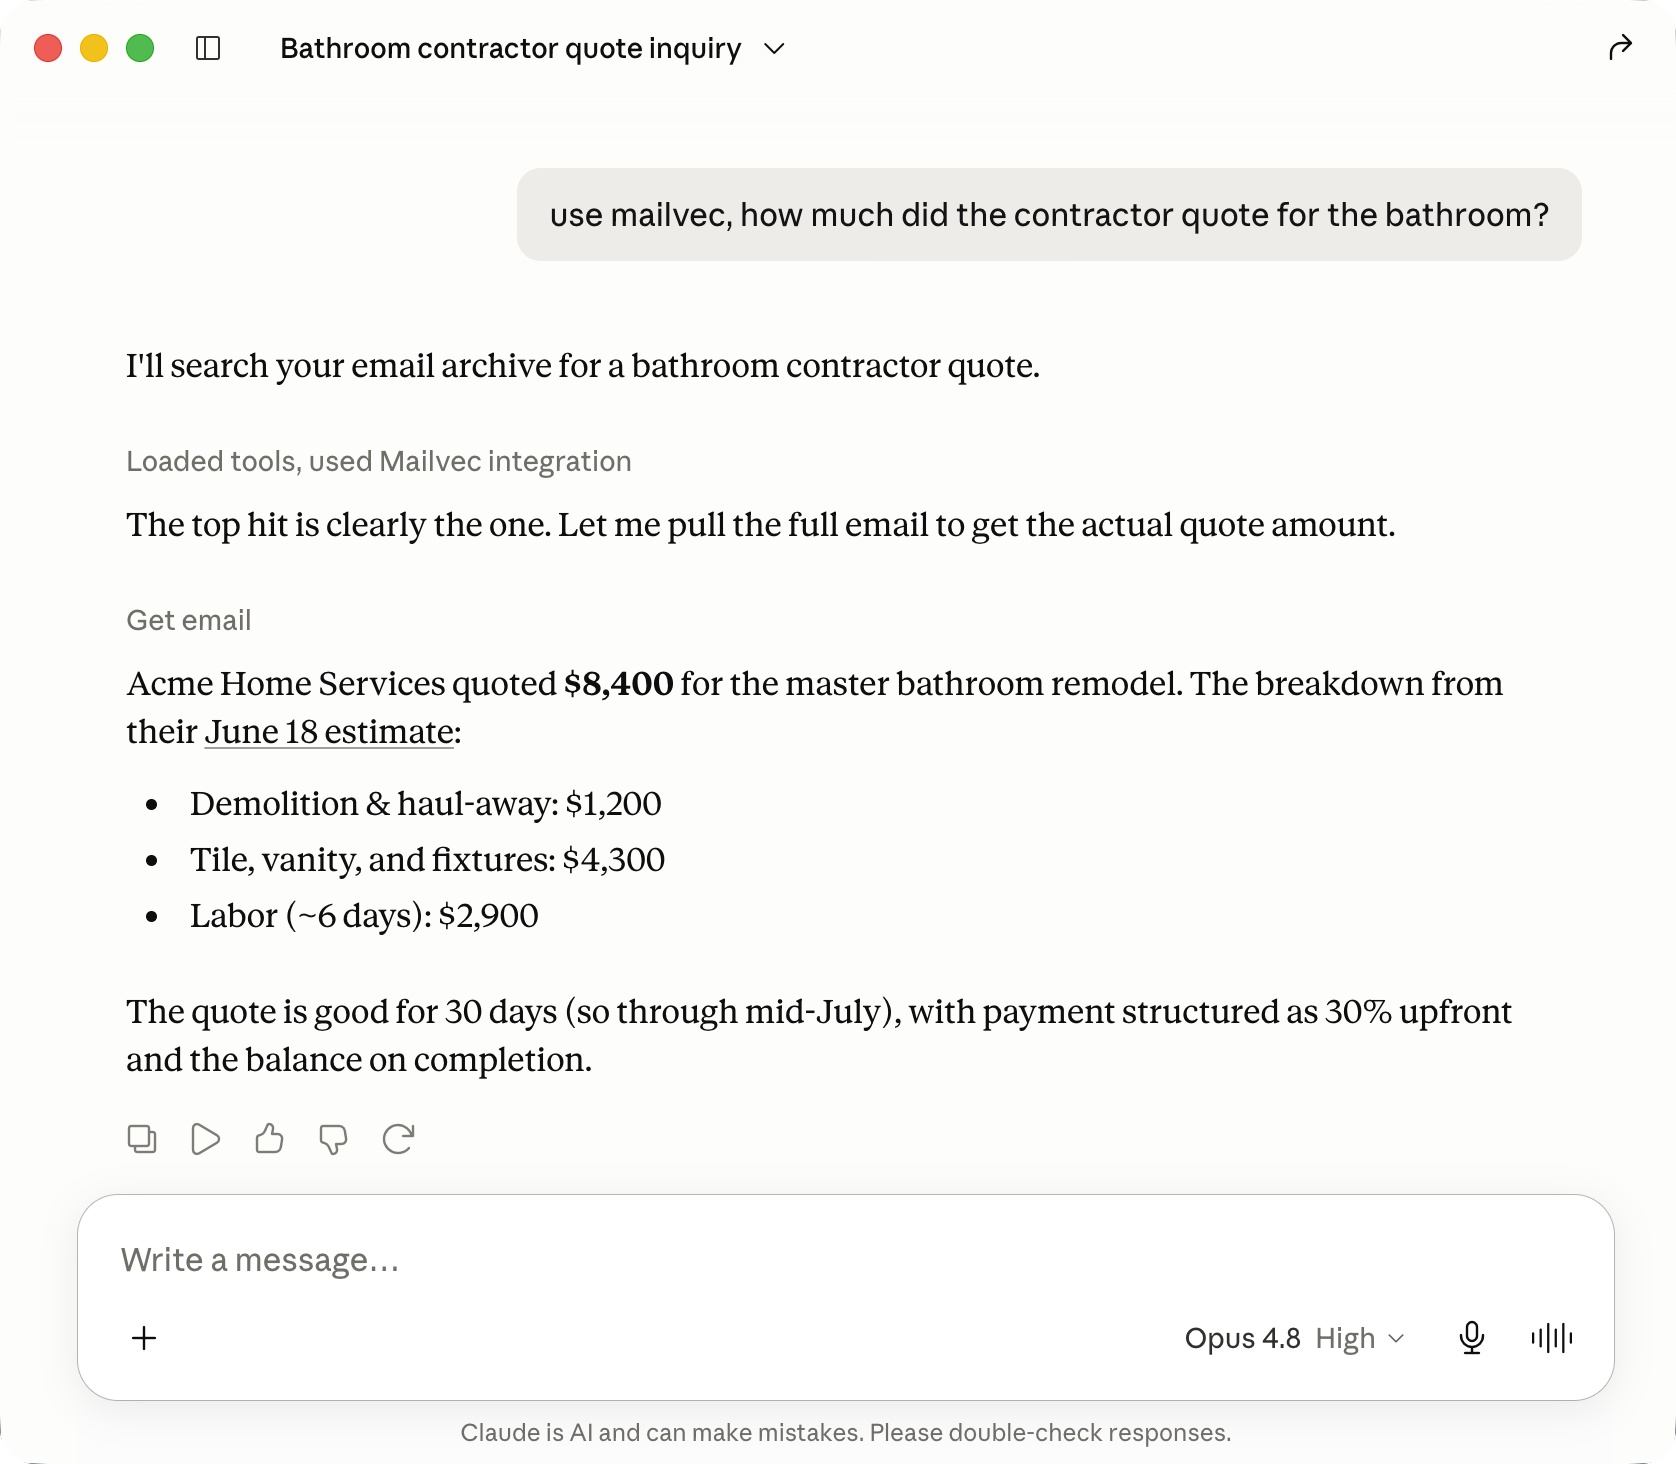
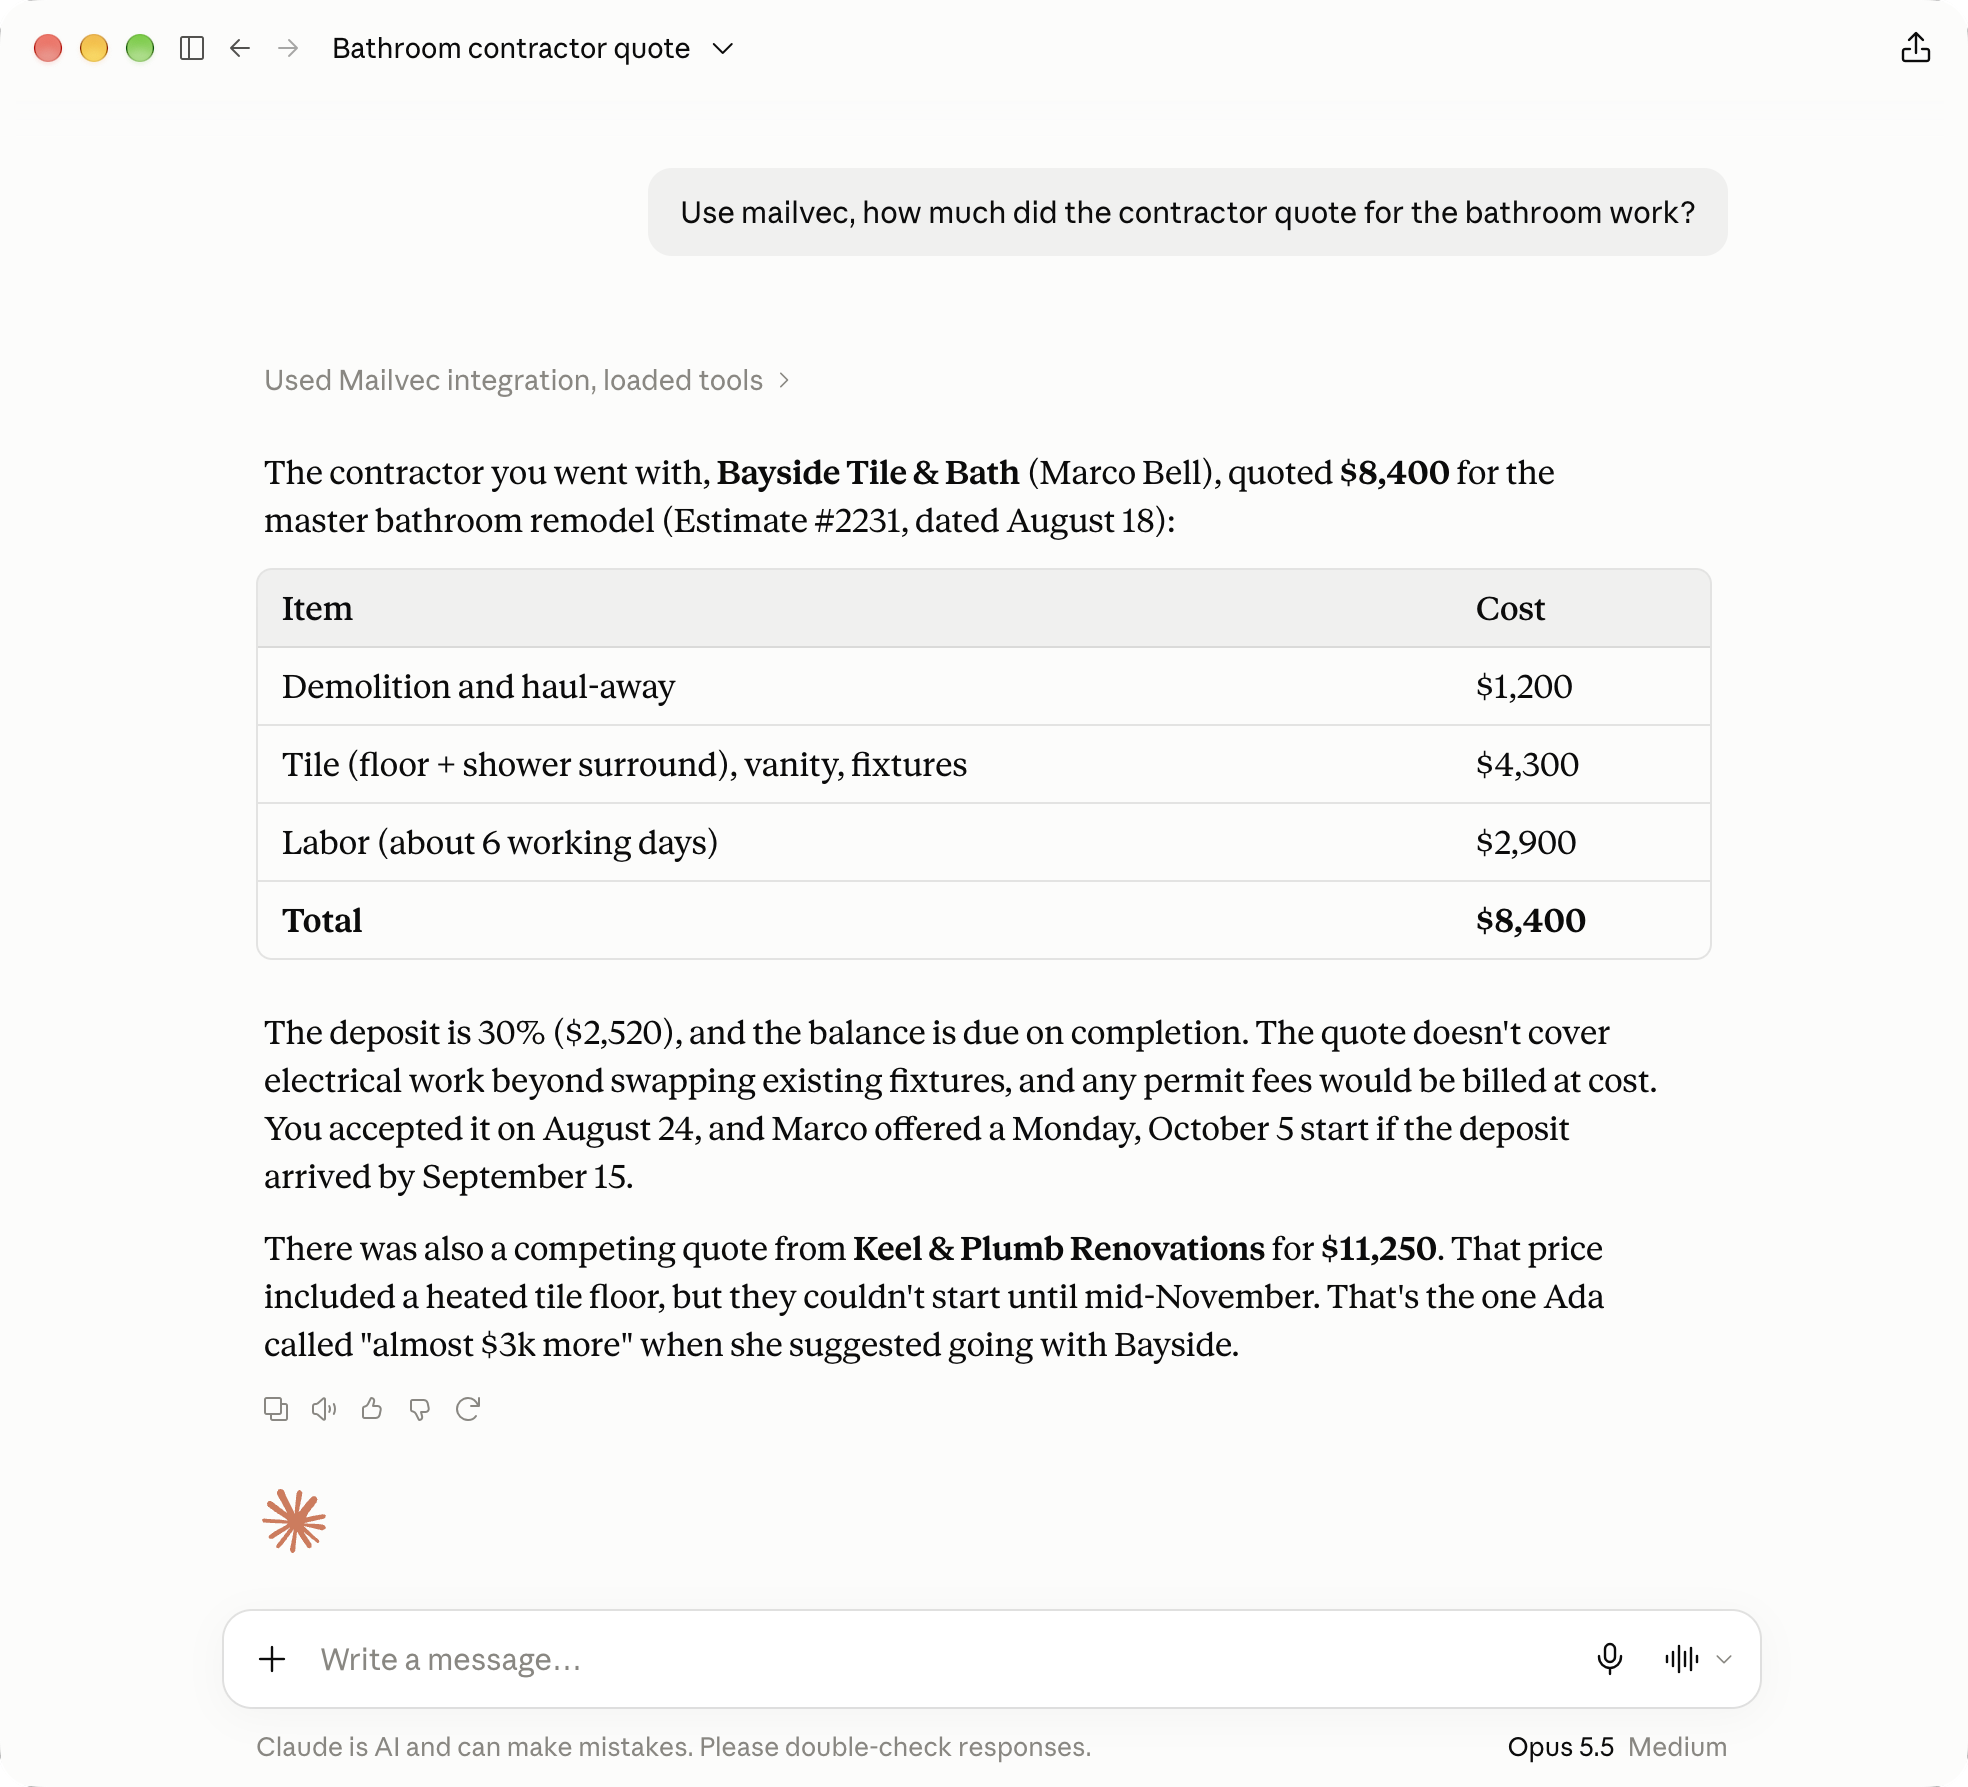
Recapture the README screenshot from a synthetic mailbox, and document how
The new capture is Claude Desktop answering from the dev corpus plus five
hand-written messages (assets/screenshots/demo-mail.py), served over stdio
from a published Mailvec.Mcp. assets/screenshots/README.md records the
procedure and what went wrong the first time: dotnet run corrupting the stdio
channel, the production connector needing to be off, Claude noticing the
persona, and window-only capture.

The script refuses to write anywhere but a generated dev corpus's Mail/.

diff --git a/assets/screenshots/demo-mail.py b/assets/screenshots/demo-mail.py
@@ -1,0 +1,159 @@
+"""Hand-written demo mail for the README screenshot, added to a dev corpus.
+
+Five messages about a bathroom remodel: a quote with an itemised PDF estimate,
+a competing quote in the body, a note comparing them, and a scheduling thread.
+Everything is invented and on reserved .example domains. This repository is
+public: never put real mail here.
+
+Usage: python3 assets/screenshots/demo-mail.py ~/MailvecDemo/Mail
+Procedure: assets/screenshots/README.md
+"""
+import sys, os, email.utils
+from email.message import EmailMessage
+from datetime import datetime, timezone, timedelta
+
+root = os.path.abspath(os.path.expanduser(sys.argv[1]))
+# Only ever write into a Maildir tools/Mailvec.DevCorpus generated: the corpus
+# directory beside it holds the manifest and the generated env.sh.
+corpus = os.path.dirname(root)
+try:
+    with open(os.path.join(corpus, "env.sh")) as f:
+        generated = "Generated by tools/Mailvec.DevCorpus" in f.read()
+except OSError:
+    generated = False
+if not (generated and os.path.isfile(os.path.join(corpus, "manifest.json"))):
+    sys.exit(f"refusing: {root} is not the Mail/ directory of a generated dev corpus")
+EDT = timezone(timedelta(hours=-4))
+SAM = "Sam Rivera <sam@example.org>"
+ADA = "Ada Example <ada@example.com>"
+
+
+def text_pdf(lines):
+    """A minimal one-page text PDF (Helvetica), parseable by PdfPig."""
+    def esc(s):
+        return s.replace("\\", "\\\\").replace("(", "\\(").replace(")", "\\)")
+    ops = ["BT", "/F1 11 Tf", "14 TL", "56 760 Td"]
+    for i, (size, line) in enumerate(lines):
+        ops.append(f"/F1 {size} Tf")
+        ops.append(f"({esc(line)}) Tj T*")
+    ops.append("ET")
+    stream = "\n".join(ops).encode("latin-1")
+    objs = [
+        b"<< /Type /Catalog /Pages 2 0 R >>",
+        b"<< /Type /Pages /Kids [3 0 R] /Count 1 >>",
+        b"<< /Type /Page /Parent 2 0 R /MediaBox [0 0 612 792] /Resources << /Font << /F1 4 0 R >> >> /Contents 5 0 R >>",
+        b"<< /Type /Font /Subtype /Type1 /BaseFont /Helvetica /Encoding /WinAnsiEncoding >>",
+        b"<< /Length %d >>\nstream\n" % len(stream) + stream + b"\nendstream",
+    ]
+    out = bytearray(b"%PDF-1.4\n")
+    offsets = []
+    for n, body in enumerate(objs, 1):
+        offsets.append(len(out))
+        out += b"%d 0 obj\n" % n + body + b"\nendobj\n"
+    xref = len(out)
+    out += b"xref\n0 %d\n0000000000 65535 f \n" % (len(objs) + 1)
+    for o in offsets:
+        out += b"%010d 00000 n \n" % o
+    out += b"trailer\n<< /Size %d /Root 1 0 R >>\nstartxref\n%d\n%%%%EOF\n" % (len(objs) + 1, xref)
+    return bytes(out)
+
+
+def msg(mid, frm, to, subject, when, body, reply_to=None, refs=(), attach=None):
+    m = EmailMessage()
+    m["Date"] = email.utils.format_datetime(when)
+    m["From"] = frm
+    m["To"] = to
+    m["Subject"] = subject
+    m["Message-ID"] = f"<{mid}>"
+    if reply_to:
+        m["In-Reply-To"] = f"<{reply_to}>"
+        m["References"] = " ".join(f"<{r}>" for r in refs)
+    m.set_content(body)
+    if attach:
+        name, data = attach
+        m.add_attachment(data, maintype="application", subtype="pdf", filename=name)
+    return m
+
+
+uid = [9000]
+
+
+def write(folder, m):
+    uid[0] += 1
+    ts = int(email.utils.parsedate_to_datetime(m["Date"]).timestamp())
+    name = f"{ts}.M{uid[0]}P4242.devcorpus,U={uid[0]}:2,S"
+    path = os.path.join(root, folder, "cur", name)
+    with open(path, "wb") as f:
+        f.write(m.as_bytes())
+    os.utime(path, (ts, ts))
+    print(folder, name, m["Subject"])
+
+
+estimate = text_pdf([
+    (16, "Bayside Tile & Bath"),
+    (10, "118 Harbor Road, Port Example  -  estimates@baysidebath.example"),
+    (10, ""),
+    (13, "ESTIMATE #2231"),
+    (10, "Date: August 18, 2026        Valid for 30 days"),
+    (10, "Prepared for: Sam Rivera, 42 Cedar Lane"),
+    (10, "Project: Master bathroom remodel"),
+    (10, ""),
+    (11, "Demolition and haul-away ............................ $1,200.00"),
+    (11, "Tile (floor + shower surround), vanity, fixtures ...... $4,300.00"),
+    (11, "Labor, approx. 6 working days ........................ $2,900.00"),
+    (10, ""),
+    (12, "TOTAL ................................................ $8,400.00"),
+    (10, ""),
+    (10, "Payment: 30% deposit ($2,520) to book, balance on completion."),
+    (10, "Excludes: electrical work beyond replacing existing fixtures."),
+    (10, "Permit fees, if required, billed at cost."),
+])
+
+BAY_EST = "estimate-2231@baysidebath.example"
+write("INBOX", msg(
+    BAY_EST, "Marco Bell <marco@baysidebath.example>", SAM,
+    "Estimate #2231 - master bathroom remodel",
+    datetime(2026, 8, 18, 16, 42, tzinfo=EDT),
+    "Hi Sam,\n\nThanks for walking me through the space on Friday. The estimate for the "
+    "master bathroom is attached - it covers demo, the tile and vanity we talked about, "
+    "and labor. Everything is itemised on the PDF.\n\nThe price holds for 30 days. If you "
+    "want to go ahead, a 30% deposit books you into our schedule.\n\nBest,\nMarco Bell\n"
+    "Bayside Tile & Bath\n",
+    attach=("Bayside-Estimate-2231.pdf", estimate)))
+
+write("INBOX", msg(
+    "quote-7781@keelplumb.example", "Keel & Plumb Renovations <office@keelplumb.example>", SAM,
+    "Your bathroom renovation quote",
+    datetime(2026, 8, 21, 10, 5, tzinfo=EDT),
+    "Hello Sam,\n\nFollowing our site visit, here is our quote for the master bathroom "
+    "renovation:\n\n  Full gut and disposal: $1,650\n  Heated tile floor + shower tile: $5,900\n"
+    "  Vanity and fixtures (client-selected allowance): $1,400\n  Labor (8-9 days): $2,300\n\n"
+    "  Total: $11,250\n\nWe could start in mid-November. Quote valid through September 30.\n\n"
+    "Regards,\nJo Keel\nKeel & Plumb Renovations\n"))
+
+ADA_NOTE = "bathroom-quotes-ada@example.com"
+write("INBOX", msg(
+    ADA_NOTE, ADA, SAM, "Bathroom quotes",
+    datetime(2026, 8, 22, 20, 18, tzinfo=EDT),
+    "I read both quotes. Keel & Plumb is nicer on paper (heated floor!) but it's almost "
+    "$3k more and they can't start until November. Bayside's tile samples looked good and "
+    "Marco was straightforward. I'd go with Bayside if they can start in early October - "
+    "can you ask?\n\nA\n"))
+
+SAM_Q = "sam-bayside-start@example.org"
+write("Sent", msg(
+    SAM_Q, SAM, "Marco Bell <marco@baysidebath.example>",
+    "Re: Estimate #2231 - master bathroom remodel",
+    datetime(2026, 8, 24, 9, 30, tzinfo=EDT),
+    "Hi Marco,\n\nWe'd like to go ahead with estimate #2231. Is there any chance of an "
+    "early-October start?\n\nThanks,\nSam\n",
+    reply_to=BAY_EST, refs=(BAY_EST,)))
+
+write("INBOX", msg(
+    "bayside-schedule@baysidebath.example", "Marco Bell <marco@baysidebath.example>", SAM,
+    "Re: Estimate #2231 - master bathroom remodel",
+    datetime(2026, 8, 25, 14, 2, tzinfo=EDT),
+    "Hi Sam,\n\nGreat news. We can hold Monday, October 5 as the start date if the "
+    "$2,520 deposit comes in by September 15. We'll need the bathroom cleared the "
+    "weekend before.\n\nMarco\n",
+    reply_to=SAM_Q, refs=(BAY_EST, SAM_Q)))

diff --git a/assets/screenshots/README.md b/assets/screenshots/README.md
@@ -1,0 +1,90 @@
+# README screenshots
+
+`claude-desktop-answer.png` is Claude Desktop answering a question from a
+synthetic mailbox: the [dev corpus](../../docs/contributing/dev-corpus.md) plus
+five hand-written messages from [`demo-mail.py`](demo-mail.py) (two contractor
+quotes, one with an itemised PDF estimate, a note comparing them, and a
+scheduling thread). No real mail is involved at any step, and none may be:
+this image and this directory are public.
+
+Nothing here installs an agent or touches the frozen corpus. Every service
+runs by hand against the demo directory.
+
+## Recapturing
+
+On the dev Mac, from the repo root. The steps use `~/MailvecDemo`; any new or
+empty directory the dev corpus accepts will do.
+
+```sh
+dotnet run --project tools/Mailvec.DevCorpus -- ~/MailvecDemo
+python3 assets/screenshots/demo-mail.py ~/MailvecDemo/Mail
+. ~/MailvecDemo/env.sh
+dotnet run --project src/Mailvec.Indexer          # Ctrl-C once it logs "MaildirScanner: seen=…"
+ollama serve &                                    # if it isn't already running; needs mxbai-embed-large
+Embedder__OcrEnabled=false dotnet run --project src/Mailvec.Embedder   # Ctrl-C once status shows 100%
+dotnet run --project src/Mailvec.Cli -- status    # check Database:/Maildir: are the demo paths
+dotnet run --project src/Mailvec.Cli -- search --hybrid "how much did the contractor quote for the bathroom"
+dotnet publish src/Mailvec.Mcp -c Release -o ~/MailvecDemo/mcp
+```
+
+- **Embed it.** Without embeddings, Claude's first search comes back "retry with
+  `mode=keyword`", and the visible tool trace gets messier.
+- **OCR off.** The corpus has a scanned PDF, and the OCR pass would load the
+  vision model to transcribe it. The screenshot doesn't need that.
+- **The search check** should put all five demo messages at the top.
+
+Then, with Claude Desktop **quit**, add a local server to
+`~/Library/Application Support/Claude/claude_desktop_config.json` (back the
+file up first) and relaunch:
+
+```json
+"mcpServers": {
+  "Mailvec": {
+    "command": "/usr/local/share/dotnet/dotnet",
+    "args": ["<home>/MailvecDemo/mcp/Mailvec.Mcp.dll", "--stdio"],
+    "env": {
+      "Archive__DatabasePath": "<home>/MailvecDemo/state/archive.sqlite",
+      "Ingest__MaildirRoot": "<home>/MailvecDemo/Mail",
+      "Fastmail__AccountId": ""
+    }
+  }
+}
+```
+
+- **Point it at the published DLL, never `dotnet run`.** In stdio mode, stdout
+  is the JSON-RPC channel, and `dotnet run` prints build output there.
+- **The `env` block is what keeps it on the demo mailbox.** Environment variables
+  outrank the shared `appsettings.Local.json`, which points at a real corpus.
+- **Name the server `Mailvec`**, so the tool trace reads "Used Mailvec
+  integration".
+
+In a new chat, **turn the claude.ai Mailvec connector off** before asking. With
+both on, Claude can answer from the real mailbox, and that answer ends up in a
+public image. Then ask, for example: "Use mailvec, how much did the contractor
+quote for the bathroom work?"
+
+Things to know about the answer:
+
+- **Claude may notice the persona.** It knows who you are, so it may point out
+  that the mail is addressed to "Sam Rivera", not you. Try an incognito chat
+  first. The current image had that paragraph removed afterwards: a band of
+  blank rows was cut out, which leaves no seam because paragraphs sit on a
+  plain background.
+- **Dates are fixed.** The story is dated August 2026, and Claude compares the
+  dates in it with today's date. If a deadline in the story has passed, Claude
+  may say so. Shift the `datetime(...)` values in `demo-mail.py` if that gets
+  in the way.
+
+Capture the window with ⌘⇧4, then Space, then ⌥-click the window. That gives
+a window-only PNG with transparent corners and no shadow. A drag-selected
+region picks up the desktop around the rounded corners.
+
+The README shows the image at a fixed `width`. If the new capture's pixel
+width differs much from the old one, scale that attribute to match, or the
+text renders smaller.
+
+## Cleaning up
+
+With Claude Desktop quit, restore the config backup (or remove the
+`mcpServers` entry). Then stop Ollama if you started it (`pkill ollama`) and
+delete `~/MailvecDemo`.

diff --git a/README.md b/README.md
@@ -3,11 +3,11 @@
 Mailvec pulls one IMAP account into a searchable local archive and gives MCP clients access to it. Search combines keyword (FTS5) and semantic (sqlite-vec) results. [`mbsync`](https://isync.sourceforge.io/) handles the pull-only mail sync, so Fastmail, iCloud, Gmail, and other IMAP servers can be used.
 
 <p align="center">
-  <img src="assets/screenshots/claude-desktop-answer.png" alt="Claude Desktop answering from the archive" width="480"/><br/>
+  <img src="assets/screenshots/claude-desktop-answer.png" alt="Claude Desktop using Mailvec to answer how much a contractor quoted for bathroom work, with an itemised table from the attached PDF estimate" width="560"/><br/>
   <em>Claude Desktop using Mailvec</em>
 </p>
 
-<sub>Screenshot uses a synthetic demo archive — no real mail.</sub>
+<sub>Screenshot uses a synthetic demo mailbox — no real mail.</sub>
 
 ## What you get
 

diff --git a/docs/contributing/dev-corpus.md b/docs/contributing/dev-corpus.md
@@ -37,6 +37,10 @@ server runs, register it for that session:
 [docs/clients/claude-code.md](../clients/claude-code.md)). Keep the production
 Mailvec connector off in the same session, so the two are never confused.
 
+The README screenshot is captured against this corpus plus a few hand-written
+messages, through Claude Desktop over stdio. The procedure is in
+[`assets/screenshots/README.md`](../../assets/screenshots/README.md).
+
 Options: `--filler N` (background messages, default 250), `--hazards` and
 `--embedding fireworks` (both below). Output is deterministic: the same options
 produce the same bytes.
